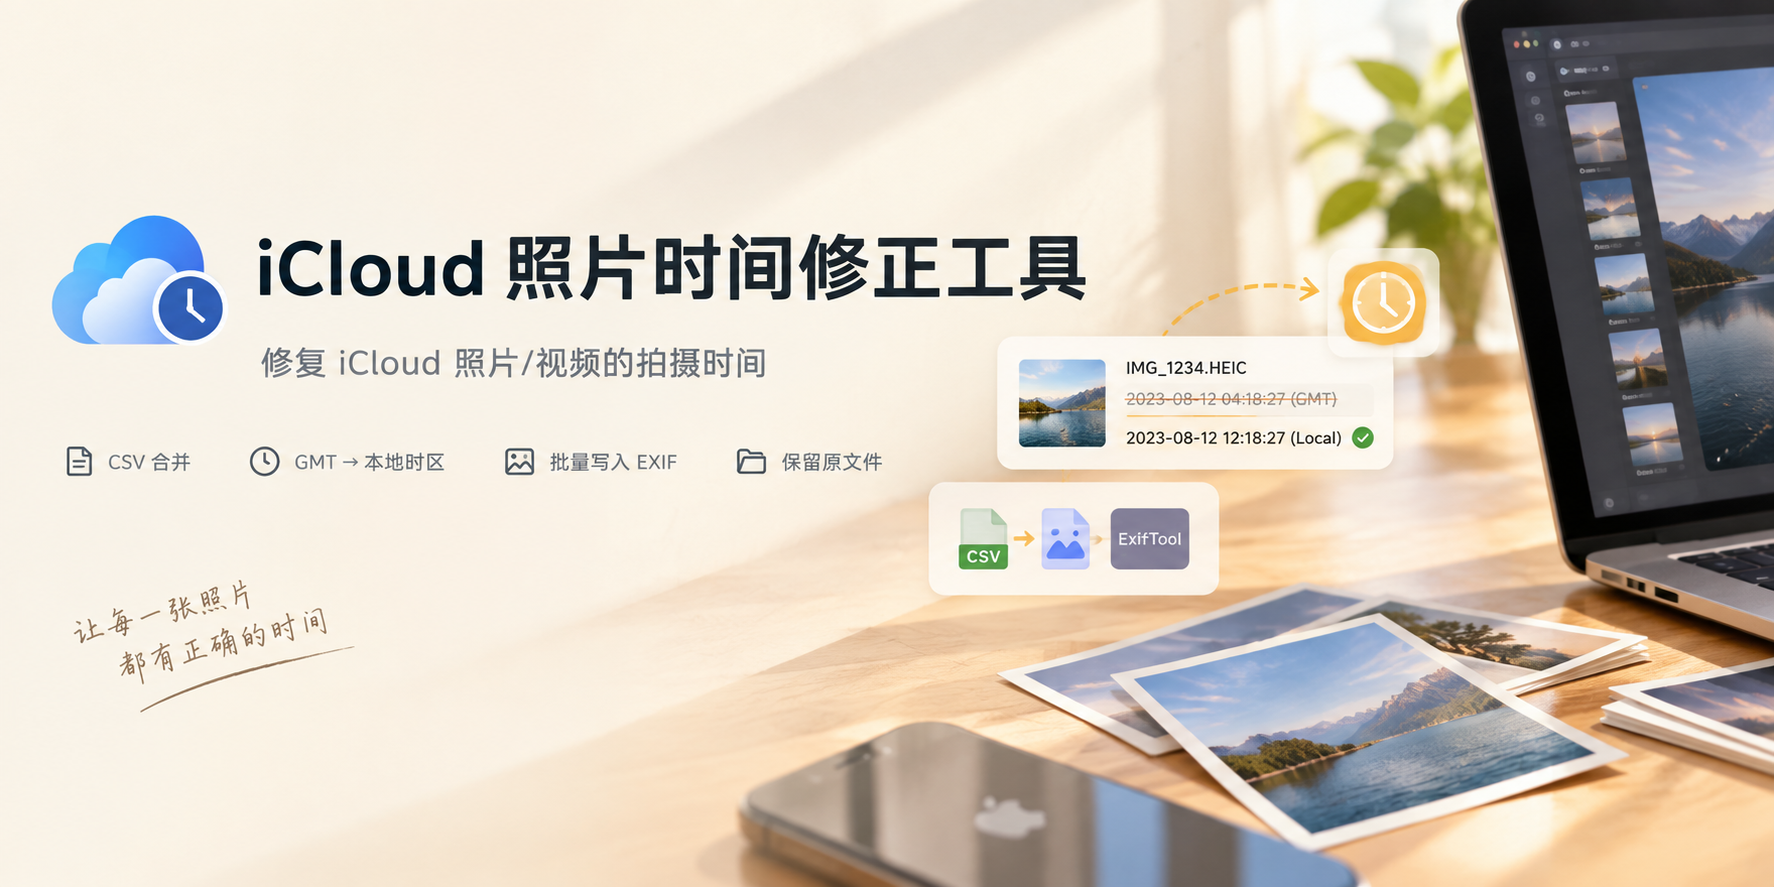
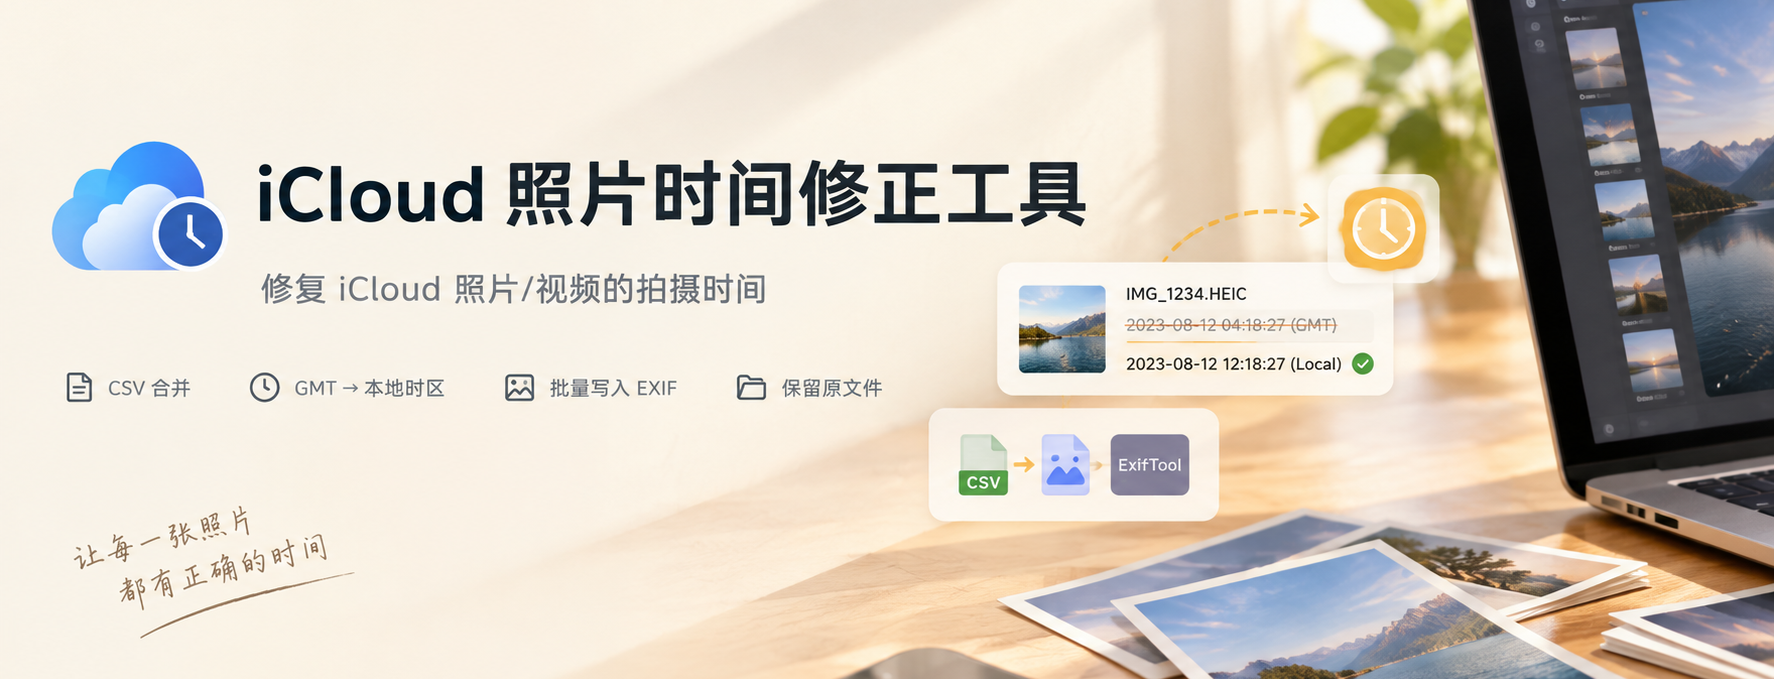
docs: sync cover layout and language links to English README

diff --git a/README.md b/README.md
@@ -1,17 +1,15 @@
 # iCloud 照片时间修正工具
 
+![iCloud 照片时间修正工具](docs/cover.png)
+
 [![Build](https://github.com/VenenoSix24/icloud-photo-time-fix/actions/workflows/build.yml/badge.svg)](https://github.com/VenenoSix24/icloud-photo-time-fix/actions/workflows/build.yml)
 [![License: MIT](https://img.shields.io/badge/License-MIT-yellow.svg)](LICENSE)
-![Platform](<https://img.shields.io/badge/platform-Windows%20%7C%20macOS%20%7C%20Linux-lightgrey>)
+![Platform](https://img.shields.io/badge/platform-Windows%20%7C%20macOS%20%7C%20Linux-lightgrey)
 ![Python](https://img.shields.io/badge/python-3.8%2B-blue)
 
+[English](README_EN.md) | [简体中文](README.md)
+
 从 iCloud 下载的部分照片没有 EXIF 拍摄时间，但 iCloud 会导出 **Photo Details CSV**。本工具读取 CSV，通过 [ExifTool](https://exiftool.org/) 把照片/视频的拍摄时间批量写回 EXIF/QuickTime 标签及文件时间戳。
-
-**[English](README_EN.md)**
-
-<p align="center">
-  <img src="docs/cover.png" alt="iCloud 照片时间修正工具" width="700">
-</p>
 
 ## 预览
 

diff --git a/README_EN.md b/README_EN.md
@@ -1,17 +1,15 @@
 # iCloud Photo Time Fixer
 
+![iCloud Photo Time Fixer](docs/cover.png)
+
 [![Build](https://github.com/VenenoSix24/icloud-photo-time-fix/actions/workflows/build.yml/badge.svg)](https://github.com/VenenoSix24/icloud-photo-time-fix/actions/workflows/build.yml)
 [![License: MIT](https://img.shields.io/badge/License-MIT-yellow.svg)](LICENSE)
 ![Platform](https://img.shields.io/badge/platform-Windows%20%7C%20macOS%20%7C%20Linux-lightgrey)
 ![Python](https://img.shields.io/badge/python-3.8%2B-blue)
 
+[English](README_EN.md) | [简体中文](README.md)
+
 Some photos downloaded from iCloud lose their EXIF capture times, but iCloud exports a **Photo Details CSV**. This tool reads the CSV and writes the capture times back into the EXIF/QuickTime tags and file timestamps of your photos/videos in batch, via [ExifTool](https://exiftool.org/).
-
-**[中文说明](README.md)**
-
-<p align="center">
-  <img src="docs/cover.png" alt="iCloud Photo Time Fixer" width="700">
-</p>
 
 ## Preview
 
